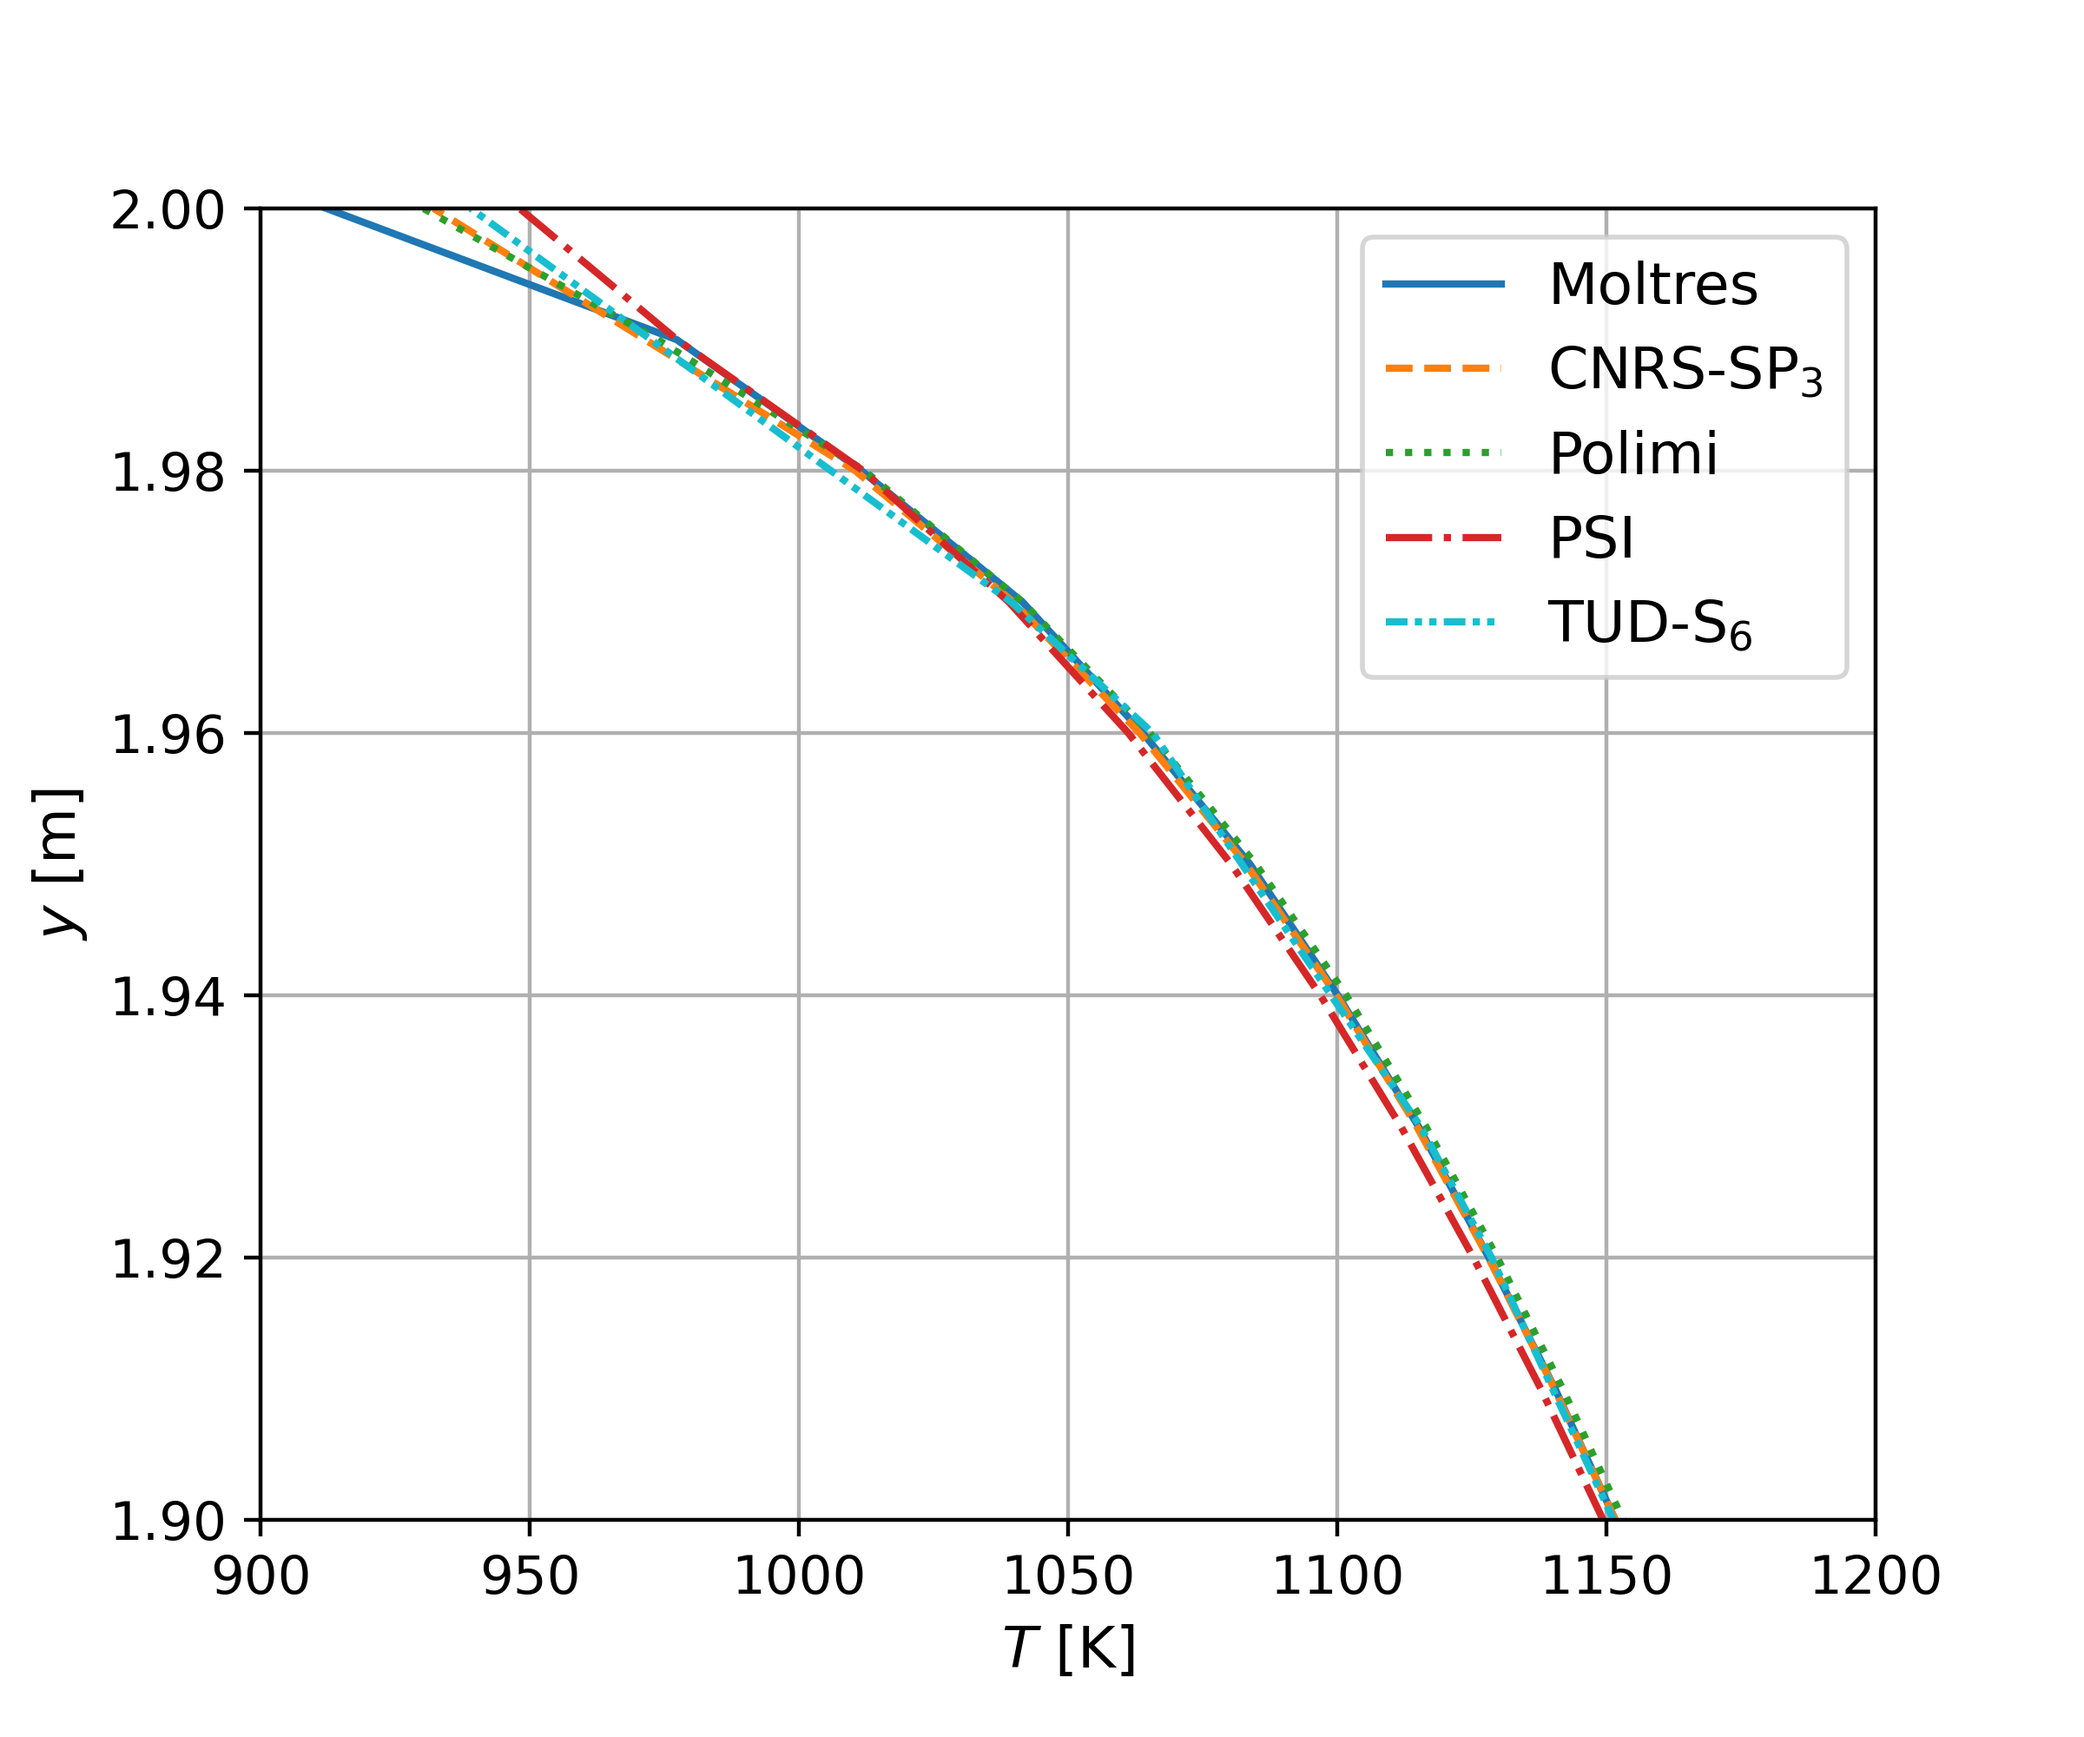
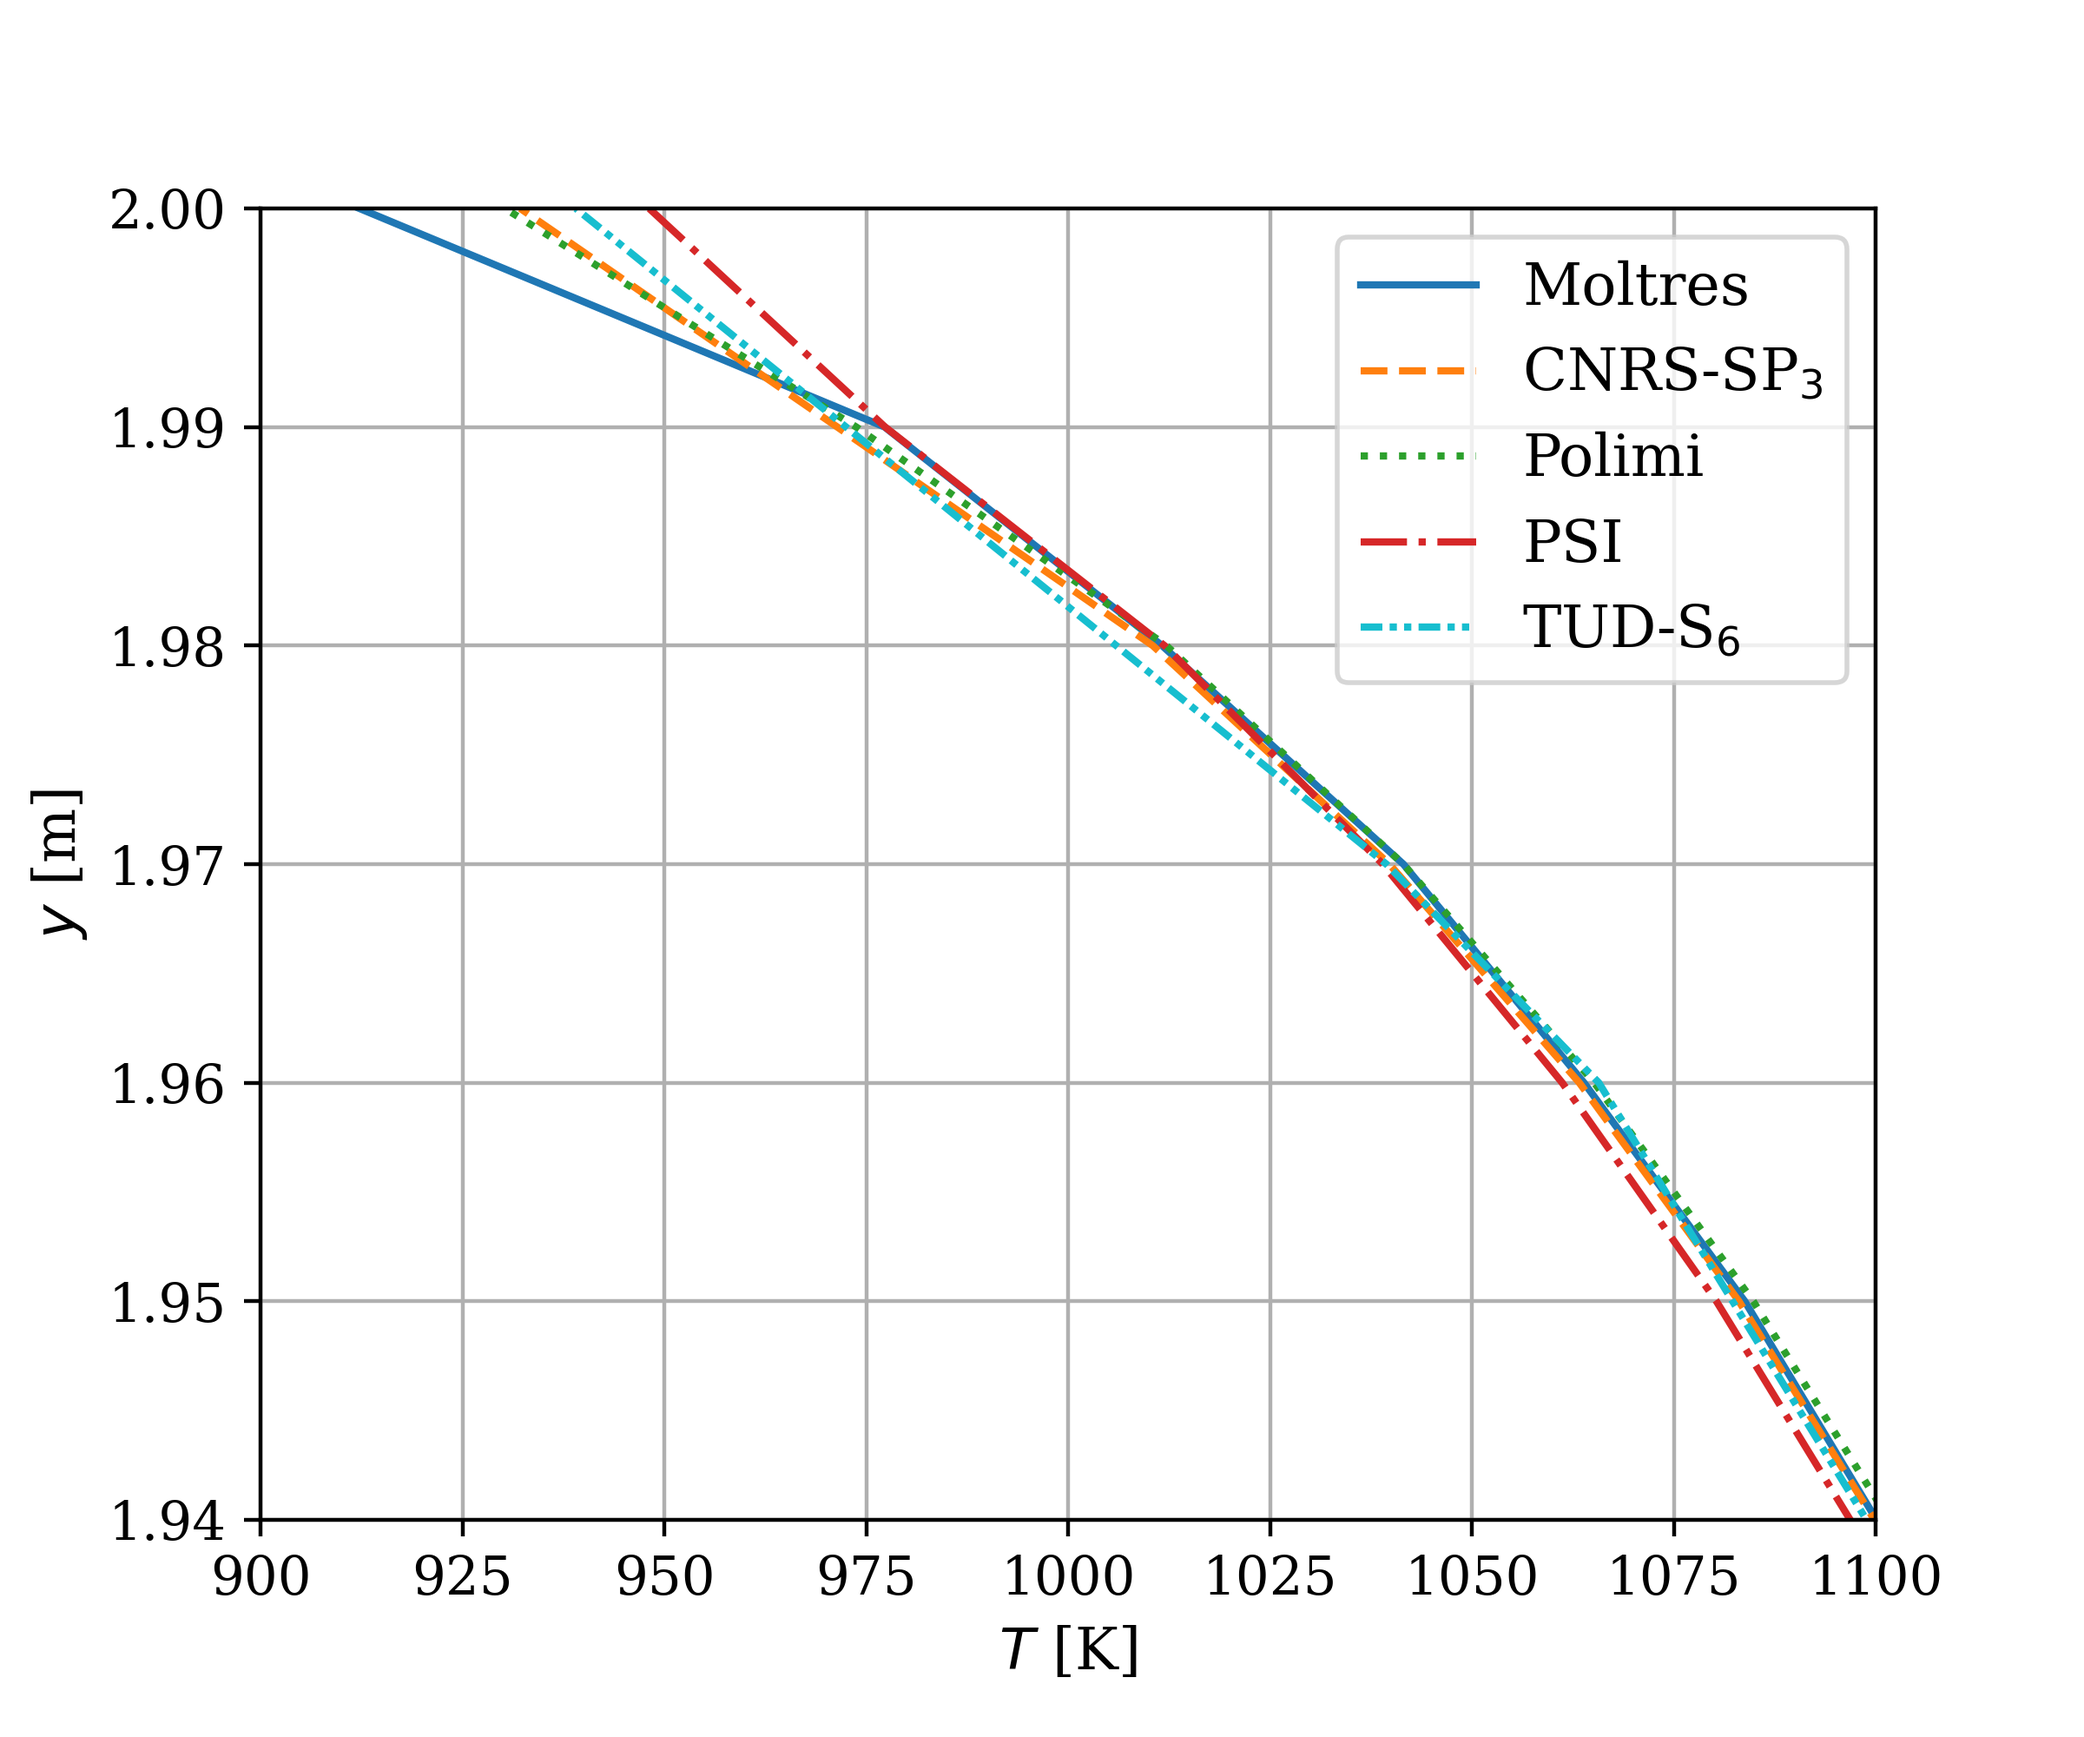
Incorporate Nathan's review comments (2)

diff --git a/results.tex b/results.tex
@@ -2,17 +2,17 @@
 
 In this section, we compare the results from Moltres for each CNRS Benchmark
 step to the results in the benchmark paper \cite{tiberga_results_2020}.
-The benchmark paper reports results from four different \gls{MSR} simulation
-software packages. The software packages from \gls{CNRS} and \gls{TUD}
+The software packages from \gls{CNRS} and \gls{TUD}
 each report two sets of results arising from different angular discretizations
 in their neutronics models for Steps 0.2, 1.1, 1.2, 1.3, 1.4, and 2.1. These
 sets of results are labeled as CNRS-$SP_1$ and
 CNRS-$SP_3$; and TUD-$S_2$ and TUD-$S_6$, respectively. The
 authors performed code-to-code verification by sampling observable values at
-201 equidistant points along the centerlines AA' and/or BB' and reporting the
+201 equidistant points along the centerlines AA' and BB' and reporting the
 discrepancy $\epsilon_c$ of each observable from each software
-(indexed by $c$) for each measured observable $Q_c$ relative to the average of
-that same observable $Q_{avg}$ from all participating software.
+(indexed by $c$) for each measured observable $Q_c$ (not to be confused with
+fission heat source $Q_f$), relative to the average of
+that same observable $Q_{avg}$ from all participating software. Variables
 $\epsilon_c$ and $Q_{avg}$ are calculated as:
 %
 \begin{align}
@@ -37,10 +37,10 @@ The average discrepancy $\epsilon$ over all software is calculated as:
 
 We adopted the averaged values $\epsilon$ and $Q_{avg}$ directly from the
 reference work \cite{tiberga_results_2020} without including our results
-from Moltres. We note that the benchmark does not provide a reference solution
-and a significantly erroneous value from one of the software packages could
-heavily skew the discrepancy values. Nevertheless, the benchmark authors have
-shown remarkably good agreement among their software packages.
+in the calculations. We note that the benchmark does not provide a reference
+solution and a significantly erroneous value from one of the software packages
+could heavily skew the discrepancy values. Nevertheless, the benchmark paper
+reports good agreement among their software packages.
 
 For observables measured along the centerlines AA' and/or BB', Tables
 \ref{table:disc0} and \ref{table:disc1} report the discrepancy $\epsilon_c$ of
@@ -65,17 +65,17 @@ Steps 0.2, 1.1, 1.2, and 1.3.
 \begin{figure}[h]
 	\centering
     \includegraphics[width=.8\columnwidth]{0-1-vel-plot}
-	\caption{Step 0.1 - Horizontal velocity component along BB'.}
+	\caption{Step 0.1 \textemdash\ Horizontal velocity component along BB'.}
 	\label{fig:0.1}
 \end{figure}
 %
 \begin{figure}[h]
 	\centering
 	\includegraphics[width=.8\columnwidth]{0-2-fiss-plot}
-	\caption{Step 0.2 - Fission rate density along AA'.}
+	\caption{Step 0.2 \textemdash\ Fission rate density along AA'.}
 	\label{fig:0.2}
 	\includegraphics[width=.8\columnwidth]{0-3-temp-plot}
-	\caption{Step 0.3 - Temperature distribution along BB'.}
+	\caption{Step 0.3 \textemdash\ Temperature distribution along BB'.}
 	\label{fig:0.3}
 \end{figure}
 %
@@ -114,7 +114,7 @@ Steps 0.2, 1.1, 1.2, and 1.3.
 
 Figures \ref{fig:0.1}, \ref{fig:0.2}, and \ref{fig:0.3} show that Moltres
 accurately reproduced all three sets of results in Phase 0 for the velocity
-field, fission rate density, and temperature, respectively. Table
+field, fission rate density, and temperature. Table
 \ref{table:disc0} reports the discrepancy values from Moltres for Phase 0 and
 the corresponding average discrepancy values from the benchmark participants
 \cite{tiberga_results_2020}. Moltres performs very well as all discrepancy
@@ -148,8 +148,8 @@ along the top boundary do not impact the overall integrity of our results.
 \begin{figure}[htb]
 	\centering
 	\includegraphics[width=.8\columnwidth]{0-3-temp-plot-zoom}
-	\caption{Step 0.3 - Temperature distribution along BB' for y = 1.9 m to
-	y = 2 m.}
+	\caption{Step 0.3 \textemdash\ Temperature distribution along BB' for y = 1.94 m to
+	y = 2.00 m.}
 	\label{fig:0.3-zoom}
 \end{figure}
 
@@ -254,7 +254,7 @@ participants' values fall in.
 	\centering
     \includegraphics[width=.8\columnwidth]{1-1-dnp-x-plot}
     \includegraphics[width=.8\columnwidth]{1-1-dnp-y-plot}
-	\caption{Step 1.1 - Delayed neutron source along AA' (top) and BB'
+	\caption{Step 1.1 \textemdash\ Delayed neutron source along AA' (top) and BB'
 	(bottom).}
 	\label{fig:1.1}
 \end{figure}
@@ -263,7 +263,7 @@ participants' values fall in.
 	\centering
 	\includegraphics[width=.8\columnwidth]{1-2-temp-plot}
 	\includegraphics[width=.8\columnwidth]{1-2-fiss-plot}
-	\caption{Step 1.2 - Temperature distribution and change in fission rate
+	\caption{Step 1.2 \textemdash\ Temperature distribution and change in fission rate
 	density along AA'.}
 	\label{fig:1.2}
 \end{figure*}
@@ -307,7 +307,7 @@ respective software.
 	\includegraphics[width=.6\columnwidth]{1-3-vel-plot}
 	\includegraphics[width=.6\columnwidth]{1-3-temp-plot}
 	\includegraphics[width=.6\columnwidth]{1-3-dnp-plot}
-	\caption{Step 1.3 - Vertical velocity component, temperature distribution,
+	\caption{Step 1.3 \textemdash\ Vertical velocity component, temperature distribution,
 	and delayed neutron source along AA'.}
 	\label{fig:1.3}
 \end{figure*}
@@ -348,7 +348,7 @@ neutronics models.
 	\setlength\tabcolsep{1.5pt}
 	\begin{tabular}{c c c c c c}
 		\toprule
-		& \multicolumn{5}{c}{$\rho - \rho_{s0.2}$ [pcm]} \\
+		& \multicolumn{5}{c}{$\rho_{s1.4} - \rho_{s0.2}$ [pcm]} \\
 		\midrule
 		{\backslashbox{$U_{lid}$ [m$\cdot$s$^{-1}$]}{$P$ [GW]}} & 0.2 & 0.4 & 0.6 & 0.8 & 1.0 \\
 		\midrule
@@ -386,7 +386,7 @@ neutronics models.
 	\centering
 	\includegraphics[width=.8\columnwidth]{2-1-gain-plot}
 	\includegraphics[width=.8\columnwidth]{2-1-phase-plot}
-	\caption{Step 2.1 - Bode gain and phase plots of the frequency response of
+	\caption{Step 2.1 \textemdash\ Bode gain and phase plots of the frequency response of
 	the fully coupled system.}
 	\label{fig:2.1}
 \end{figure*}

diff --git a/appendix.tex b/appendix.tex
@@ -8,7 +8,7 @@ CNRS benchmark participants \cite{tiberga_results_2020}. We refer readers to
 results from Moltres and the benchmark participants. 
 
 \begin{table}[htbp!]
-	\caption{Step 0.1 - Velocity components along centerlines AA' and BB'.}
+	\caption{Step 0.1 \textemdash\ Velocity components along centerlines AA' and BB'.}
 	\centering
 	\footnotesize
 	\setlength\tabcolsep{1.5pt}
@@ -51,7 +51,7 @@ results from Moltres and the benchmark participants.
 \end{table}
 
 \begin{table}[htbp!]
-	\caption{Step 0.2 - Fission rate density along $AA'$.}
+	\caption{Step 0.2 \textemdash\ Fission rate density along $AA'$.}
 	\centering
 	\footnotesize
 	\setlength\tabcolsep{1.5pt}
@@ -76,7 +76,7 @@ results from Moltres and the benchmark participants.
 \end{table}
 
 \begin{table}[htbp!]
-	\caption{Step 0.3 - Temperature distribution along centerlines $AA'$ and $BB'$.}
+	\caption{Step 0.3 \textemdash\ Temperature distribution along centerlines $AA'$ and $BB'$.}
 	\label{table:0.3}
 	\centering
 	\footnotesize
@@ -114,7 +114,7 @@ results from Moltres and the benchmark participants.
 \end{table}
 
 \begin{table}[htbp!]
-	\caption{Step 1.1 - Delayed neutron source along centerlines $AA'$ and $BB'$.}
+	\caption{Step 1.1 \textemdash\ Delayed neutron source along centerlines $AA'$ and $BB'$.}
 	\centering
 	\footnotesize
 	\setlength\tabcolsep{1.5pt}
@@ -149,7 +149,7 @@ results from Moltres and the benchmark participants.
 \end{table}
 
 \begin{table}[htbp!]
-	\caption{Step 1.2 - Temperature distribution and change in fission rate density relative to Step 0.2 along centerlines $AA'$ and $BB'$.}
+	\caption{Step 1.2 \textemdash\ Temperature distribution and change in fission rate density relative to Step 0.2 along centerlines $AA'$ and $BB'$.}
 	\centering
 	\footnotesize
 	\setlength\tabcolsep{1.5pt}
@@ -204,7 +204,7 @@ results from Moltres and the benchmark participants.
 \end{table}
 
 \begin{table}[htbp!]
-	\caption{Step 1.3 - Velocity components, temperature distribution, and delayed neutron source along centerlines $AA'$ and $BB'$.}
+	\caption{Step 1.3 \textemdash\ Velocity components, temperature distribution, and delayed neutron source along centerlines $AA'$ and $BB'$.}
 	\centering
 	\footnotesize
 	\setlength\tabcolsep{1.5pt}

diff --git a/moltres.tex b/moltres.tex
@@ -164,14 +164,13 @@ element solver to circumvent the numerical instability issue.
 
 For this work, we ran the benchmark cases on a uniformly-spaced mesh consisting
 of 200$\times$200 elements. Thus, the dimensions of each mesh element are
-0.01m$\times$0.01m. For nuclear data, we converted the group constant data
-provided by Tiberga et al.
-\cite{tiberga_results_2020} into a Moltres-compatible text format. Next, we
+0.01m$\times$0.01m. We adopt the group constant data
+provided by Tiberga et al. \cite{tiberga_results_2020}. Next, we
 discretized most of the relevant variables, i.e. neutron fluxes, velocity
-components, pressure, and temperature, using continuous, first-order Lagrange
+components, pressure, and temperature, using continuous, first-order, Lagrange
 shape functions. The only exception is the precursor concentration variables,
 which we discretized using zeroth-order monomial shape functions and solved
-using \gls{DFEM}. We interpolated the resulting discontinuous,
+using a \gls{DFEM}. We interpolated the resulting discontinuous,
 cell-centered precursor values to obtain the nodal values for results
 analysis.
 

diff --git a/abstract.tex b/abstract.tex
@@ -13,8 +13,8 @@ subproblems of modeling neutronics and thermal-hydraulics in a square cavity
 filled with $^{233}$U-based molten salt fuel.
 The results show that Moltres is consistent with the results from participating
 software packages published with the benchmark.
-Relevant discrepancy values of measured neutronics and thermal-hydraulics
-quantities from Moltres fell within similar orders of magnitude compared with
+Most of the discrepancy values of measured neutronics and thermal-hydraulics
+quantities from Moltres fell within the same order of magnitude compared with
 the published data. Among the
 participating multiphysics tools in the benchmark,
 Moltres agrees closest to the in-house multiphysics tool from the

diff --git a/conclusion.tex b/conclusion.tex
@@ -26,7 +26,7 @@ to the other models which employ different neutron transport models,
 non-uniform meshes, and/or finite volume-based solvers. 
 
 This work verifies Moltres' capabilities for future work involving modeling and
-simulation of fast-spectrum \glspl{MSR} with Moltres. Fast-spectrum \glspl{MSR}
+simulation of fast-spectrum \glspl{MSR}. Fast-spectrum \glspl{MSR}
 under consideration for modeling with Moltres include the European \gls{MSFR}
 as a continuation of work done in \cite{park_advancement_2020}, and
 TerraPower's \gls{MCFR} \cite{terrapower_terrapower_2021} from publicly

diff --git a/acknowledgements.tex b/acknowledgements.tex
@@ -2,7 +2,7 @@
 
 This research is part of the Blue Waters sustained-petascale computing project,
 which is supported by the National Science Foundation (awards OCI-0725070 and
-ACI-1238993) the State of Illinois, and as of December, 2019, the National
+ACI-1238993), the State of Illinois, and as of December, 2019, the National
 Geospatial-Intelligence Agency. Blue Waters is a joint effort of the University
 of Illinois at Urbana-Champaign and its National Center for Supercomputing
 Applications.
